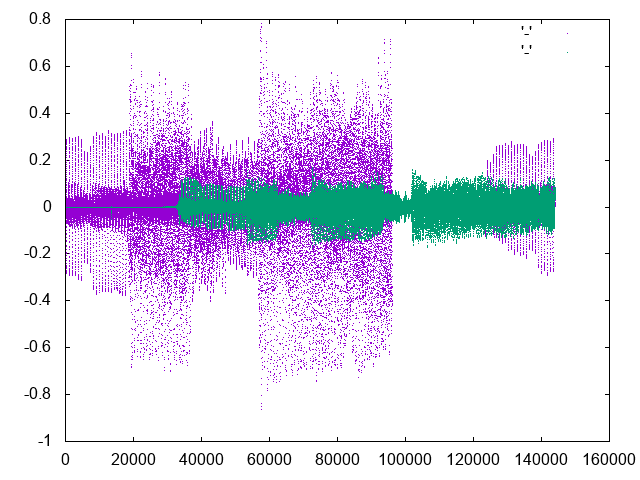
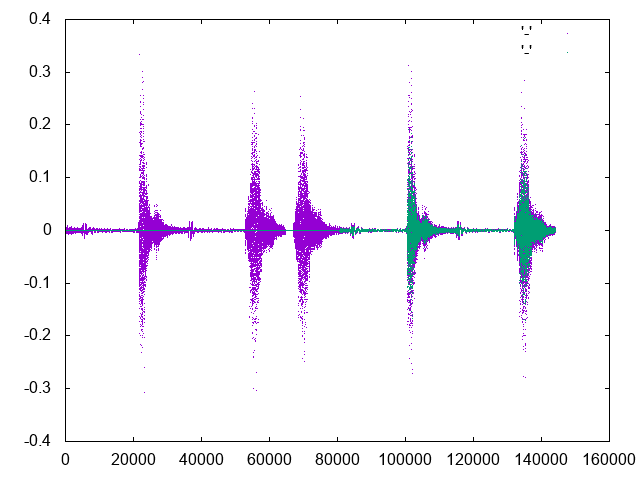
Fixed!

diff --git a/src/cross_correlation.c b/src/cross_correlation.c
@@ -58,19 +58,19 @@ static void *fft(void *thread_arg) {
 // one, with a confidence between -1 and 1.
 //
 // In case of error, the function returns -1
-int cross_correlation(double *input1, double *input2, const size_t input_len,
+int cross_correlation(double *input1, double *input2, const size_t input_length,
                       double *displacement, double *coefficient) {
     // Benchmarking the matching function
     clock_t start = clock();
 
     // Zero padding the data.
-    size_t length = input_len * 2 + 1;
+    const size_t length = input_length * 2;
     double *data1 = fftw_alloc_real(length);
-    memcpy(data1, input1, input_len * sizeof(double));
-    memset(data1 + input_len, 0, (length - input_len) * sizeof(double));
+    memcpy(data1, input1, input_length * sizeof(double));
+    memset(data1 + input_length, 0, (length - input_length) * sizeof(double));
     double *data2 = fftw_alloc_real(length);
-    memcpy(data2, input2, input_len * sizeof(double));
-    memset(data2 + input_len, 0, (length - input_len) * sizeof(double));
+    memcpy(data2, input2, input_length * sizeof(double));
+    memset(data2 + input_length, 0, (length - input_length) * sizeof(double));
 
     // Getting the complex results from both FFT. The output length for the
     // complex numbers is n/2+1.
@@ -128,11 +128,10 @@ int cross_correlation(double *input1, double *input2, const size_t input_len,
     // Shifting the first array to the left by the lag, reusing the previous
     // results array.
     // The zero-padding can be ignored from now on.
-    const size_t real_length = length / 2;
     size_t shift_i;
-    memcpy(results, data1, sizeof(double) * real_length);
-    for (size_t i = 0; i < real_length; ++i) {
-        shift_i = (i + lag + real_length) % real_length;
+    memcpy(results, data1, sizeof(double) * input_length);
+    for (size_t i = 0; i < input_length; ++i) {
+        shift_i = (i + lag + input_length) % input_length;
         data1[i] = results[shift_i];
     }
 
@@ -141,18 +140,18 @@ int cross_correlation(double *input1, double *input2, const size_t input_len,
     // 1. The average for both datasets.
     double sum1 = 0.0;
     double sum2 = 0.0;
-    for (size_t i = 0; i < real_length; ++i) {
+    for (size_t i = 0; i < input_length; ++i) {
          sum1 += data1[i];
          sum2 += data2[i];
     }
-    double avg1 = sum1 / real_length;
-    double avg2 = sum2 / real_length;
+    double avg1 = sum1 / input_length;
+    double avg2 = sum2 / input_length;
     // 2. Applying the definition formula.
     double diff1, diff2;
     double diffprod = 0.0;
     double diff1_squared = 0.0;
     double diff2_squared = 0.0;
-    for (size_t i = 0; i < real_length; ++i) {
+    for (size_t i = 0; i < input_length; ++i) {
         diff1 = data1[i] - avg1;
         diff2 = data2[i] - avg2;
         diffprod += diff1 * diff2;
@@ -178,16 +177,16 @@ int cross_correlation(double *input1, double *input2, const size_t input_len,
 
 #ifdef DEBUG
     // Plotting the output with gnuplot
-    printf("Plotting fixed audio tracks\n");
+    printf(">> Saving plot to '%ld.png'\n", input_length);
     FILE *gnuplot = popen("gnuplot", "w");
     fprintf(gnuplot, "set term 'png'\n");
-    fprintf(gnuplot, "set output 'images/%ld.png'\n", input_len);
+    fprintf(gnuplot, "set output 'images/%ld.png'\n", input_length);
     fprintf(gnuplot, "plot '-' with dots, '-' with dots\n");
-    for (int i = 0; i < real_length; ++i)
+    for (int i = 0; i < input_length; ++i)
         fprintf(gnuplot, "%f\n", data1[i]);
     fprintf(gnuplot, "e\n");
     // The second audio file starts at samplesDelay
-    for (int i = 0; i < real_length; ++i)
+    for (int i = 0; i < input_length; ++i)
         fprintf(gnuplot, "%f\n", data2[i]);
     fprintf(gnuplot, "e\n");
     fflush(gnuplot);

diff --git a/src/main.c b/src/main.c
@@ -48,21 +48,18 @@ int main(int argc, char *argv[]) {
     pthread_mutex_t global_mutex;
     pthread_cond_t thread_done;
 
-    // Actual size of the data, having in account the sample rate and that
-    // half of its size will be zero-padded.
     const size_t length = intervals[n_intervals-1];
+    double *arr1;
+    arr1 = malloc(length * sizeof(*arr1));
+    double *arr2;
+    arr2 = malloc(length * sizeof(*arr2));
     int err = 1;
-
-    // The arrays are initialized with FFTW's method because cross_correlation
-    // uses this library.
-    double *out1 = fftw_alloc_real(length);
-    double *out2 = fftw_alloc_real(length);
 
     // Launching the threads
     pthread_t down_th, cap_th;
     struct down_data down = {
         .url = argv[1],
-        .buf = out1,
+        .buf = arr1,
         .total_len = length,
         .len = 0,
         .intervals = intervals,
@@ -71,7 +68,7 @@ int main(int argc, char *argv[]) {
         .done = &thread_done
     };
     struct cap_data cap = {
-        .buf = out2,
+        .buf = arr2,
         .total_len = length,
         .len = 0,
         .intervals = intervals,
@@ -98,9 +95,10 @@ int main(int argc, char *argv[]) {
 
         // Runs the cross correlation. If the results have a good enough
         // confidence, the function ends and returns the obtained value.
-        if (cross_correlation(out1, out2, intervals[i], &lag, &confidence) < 0) {
+        if (cross_correlation(arr1, arr2, intervals[i], &lag, &confidence) < 0) {
             continue;
         }
+
         if (confidence > MIN_CONFIDENCE) {
             // Warning, pthread_cancel is aggressive.
             pthread_cancel(down_th);
@@ -111,8 +109,8 @@ int main(int argc, char *argv[]) {
 
 
 finish:
-    if (out1) fftw_free(out1);
-    if (out2) fftw_free(out2);
+    if (arr1) free(arr1);
+    if (arr2) free(arr2);
 
     return err;
 }

diff --git a/src/capture/linux_capture.c b/src/capture/linux_capture.c
@@ -32,9 +32,12 @@ void *capture(void *arg) {
         // Child process (ffmpeg)
         close(wav_pipe[READ_END]);  // Child won't read the pipe
         // ffmpeg $FFMPEG_FLAGS -f pulse -i "$defaultSink" "$1"
-        char *args[] = {"ffmpeg", "-y", "-ac", NUM_CHANNELS_STR, "-r",
-                        SAMPLE_RATE_STR, "-to", "15", "-f", "pulse", "-i",
-                        "default", "-f", "f64le", "pipe:1", NULL};
+        // The order of the arguments is important
+        char *args[] = {
+            "ffmpeg", "-y", "-to", "15", "-f", "pulse", "-i", "default",
+            "-ac", NUM_CHANNELS_STR, "-r", SAMPLE_RATE_STR, "-f", "f64le",
+            "pipe:1", NULL
+        };
         dup2(wav_pipe[WRITE_END], 1);  // Redirecting stdout to the pipe
 #ifndef DEBUG
         freopen("/dev/null", "w", stderr);  // Ignoring stderr

diff --git a/src/download/linux_download.c b/src/download/linux_download.c
@@ -28,9 +28,12 @@ void *download(void *arg) {
         // Child process (ffmpeg)
         close(wav_pipe[READ_END]);  // Child won't read the pipe
 
-        char *args[] = {"ffmpeg", "-y", "-ac", NUM_CHANNELS_STR, "-r",
-                        SAMPLE_RATE_STR, "-to", "15", "-i", data->url, "-f",
-                        "f64le", "pipe:1", NULL};
+        // The arguments order is important
+        char *args[] = {
+            "ffmpeg", "-y", "-to", "15", "-i", data->url, "-ac",
+            NUM_CHANNELS_STR, "-r", SAMPLE_RATE_STR, "-f", "f64le", "pipe:1",
+            NULL
+        };
         dup2(wav_pipe[WRITE_END], 1);  // Redirecting stdout to the pipe
 #ifndef DEBUG
         freopen("/dev/null", "w", stderr);  // Ignoring stderr
